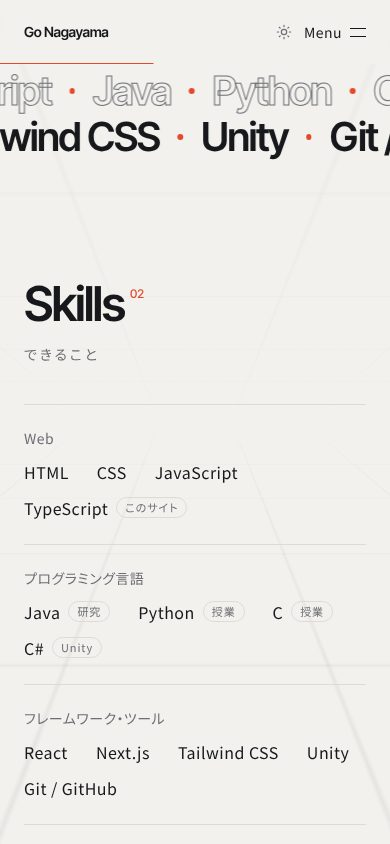
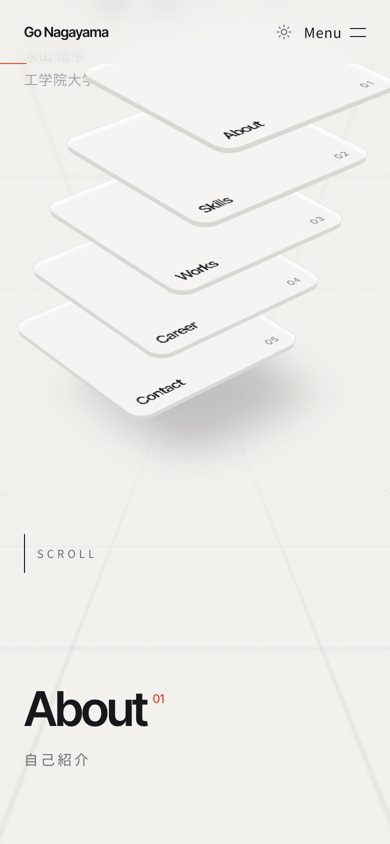
横に流れる文字の帯をやめ、スクロールで最初の画面の板が横に広がる動きに変更
Claude-Session: https://claude.ai/code/session_01X6ANXcTk8pbFYUVF9ywFsG

diff --git a/src/app/globals.css b/src/app/globals.css
@@ -169,15 +169,22 @@ body {
   /* 斜め上から見下ろす角度。--mx / --my はマウスの位置（-0.5〜0.5）で、少しだけ向きが変わる */
   transform: rotateX(calc(56deg - var(--my, 0) * 12deg)) rotateZ(calc(-40deg + var(--mx, 0) * 16deg));
 }
-/* 板どうしの間隔。スクロールすると広がって、重なりがほどけていく。
+/* 板どうしの間隔。スクロールすると広がって、重なりがほどけながら横へ広がっていく。
    --lift：マウスを乗せた板より上にある板は 1 になり、上へ持ち上がって、選んだ板の表面が見えるようになる */
 .plate {
   --gap: calc(46px + min(var(--sy, 0), 700) * 0.1px);
+  /* --fan：スクロールし始めてから 500px までで 0 → 1。板がトランプを広げるように横へずれていく量 */
+  --fan: calc(min(var(--sy, 0), 500) / 500);
+  /* --spread：板 1 枚あたりのずらし幅。真ん中の板（--z が 2）を中心に、上の板は右へ、下の板は左へ（スマホでは小さめ） */
+  --spread: calc(var(--fan) * (var(--z) - 2) * min(110px, 10vw));
   position: absolute;
   inset: 0;
   display: block;
   transform-style: preserve-3d;
-  transform: translateZ(calc(var(--z) * var(--gap) + var(--lift, 0) * 90px));
+  /* 板の山は斜めに置いてある（.stack の rotateZ(-40deg)）ので、画面の「真横」に動かすには
+     板の向きでいう (cos40°, sin40°) ≒ (0.77, 0.64) の方向にずらす。そのあと translateZ で高さを付ける */
+  transform: translate3d(calc(var(--spread) * 0.77), calc(var(--spread) * 0.64), 0)
+    translateZ(calc(var(--z) * var(--gap) + var(--lift, 0) * 90px));
   transition: transform 0.6s cubic-bezier(0.2, 0.8, 0.2, 1);
   outline: none;
 }
@@ -271,31 +278,6 @@ body {
   opacity: 0.45;
 }
 
-/* ===== 横に流れる帯（SkillBand.tsx） =========================
-   --p（0〜1）は「帯が画面の下から入って上へ抜けるまで」の進み具合。
-   それを横の移動量に置き換えて、1 段目は左へ、2 段目は右へずらします。 */
-.band-row {
-  display: flex;
-  width: max-content;
-  font-family: var(--font-display);
-  font-size: clamp(2.5rem, 6vw, 5.5rem);
-  font-weight: 600;
-  line-height: 1.15;
-  letter-spacing: -0.04em;
-  white-space: nowrap;
-  transform: translateX(calc(-8% - var(--p, 0) * 14%));
-  will-change: transform;
-}
-.band-row-reverse {
-  transform: translateX(calc(-22% + var(--p, 0) * 14%));
-  color: var(--foreground);
-}
-/* 1 段目は文字の「ふち」だけを描いて、2 段目と強弱をつける */
-.band-outline {
-  color: transparent;
-  -webkit-text-stroke: 1px var(--muted);
-}
-
 /* スキルの各行：下からではなく、左から横にすべり込む */
 .reveal.slide {
   transform: translateX(-40px);
@@ -353,12 +335,9 @@ body {
   .reveal.slide {
     transform: none;
   }
-  /* 横の帯とマス目は、スクロールしても動かさない */
-  .band-row {
-    transform: translateX(-8%);
-  }
-  .band-row-reverse {
-    transform: translateX(-22%);
+  /* 板は横に広げず、マス目もスクロールで動かさない */
+  .plate {
+    --fan: 0;
   }
   .space-plane {
     background-position: center 0;

diff --git a/src/components/ScrollLinked.tsx b/src/components/ScrollLinked.tsx
@@ -9,21 +9,12 @@ import { useEffect, useRef } from "react";
 //
 // CSS 側で「--p の分だけ線を伸ばす」のように使うと、スクロールにぴったり連動した動きになります。
 // （Reveal は「一度だけ出てくる」動き、こちらは「スクロールを戻すと動きも戻る」動きです）
-//
-// start / end を渡すと、「どこからどこまでで 0→1 にするか」を変えられます（画面の高さに対する割合）。
-// たとえば start=1, end=0 なら「画面の下から入ってきて、上へ出ていくまで」全体で 0→1 になります。
 export default function ScrollLinked({
   children,
   className = "",
-  start: startRatio = 0.85,
-  end: endRatio = 0.6,
-  ariaHidden,
 }: {
   children: React.ReactNode;
   className?: string;
-  start?: number;
-  end?: number;
-  ariaHidden?: boolean;
 }) {
   const ref = useRef<HTMLDivElement>(null);
 
@@ -35,8 +26,8 @@ export default function ScrollLinked({
       frame = 0;
       const rect = el.getBoundingClientRect(); // 画面の中での要素の位置
       const vh = window.innerHeight;
-      const start = vh * startRatio;
-      const end = vh * endRatio;
+      const start = vh * 0.85;
+      const end = vh * 0.6;
       const total = rect.height + start - end;
       const p = (start - rect.top) / total;
       el.style.setProperty("--p", String(Math.min(1, Math.max(0, p))));
@@ -52,10 +43,10 @@ export default function ScrollLinked({
       window.removeEventListener("resize", onScroll);
       cancelAnimationFrame(frame);
     };
-  }, [startRatio, endRatio]);
+  }, []);
 
   return (
-    <div ref={ref} className={className} aria-hidden={ariaHidden}>
+    <div ref={ref} className={className}>
       {children}
     </div>
   );

diff --git a/src/app/page.tsx b/src/app/page.tsx
@@ -4,7 +4,6 @@ import Reveal from "@/components/Reveal";
 import ScrollLinked from "@/components/ScrollLinked";
 import ScrollDepth from "@/components/ScrollDepth";
 import Section from "@/components/Section";
-import SkillBand from "@/components/SkillBand";
 import SpaceGrid from "@/components/SpaceGrid";
 import Tilt from "@/components/Tilt";
 import WorkPreview from "@/components/WorkPreview";
@@ -111,12 +110,7 @@ export default function Home() {
               ))}
             </Reveal>
           </Section>
-        </div>
 
-        {/* スクロールで横に流れるスキル名の帯。画面の端から端まで使いたいので、幅を制限する枠の外に置く */}
-        <SkillBand />
-
-        <div className="mx-auto w-full max-w-6xl px-6">
           <Section id="skills" number="02" title="Skills" label="できること">
             {/* dl（定義リスト）：「見出し（dt）と説明（dd）」の組を並べるための HTML タグ */}
             <dl className="border-b border-line">
